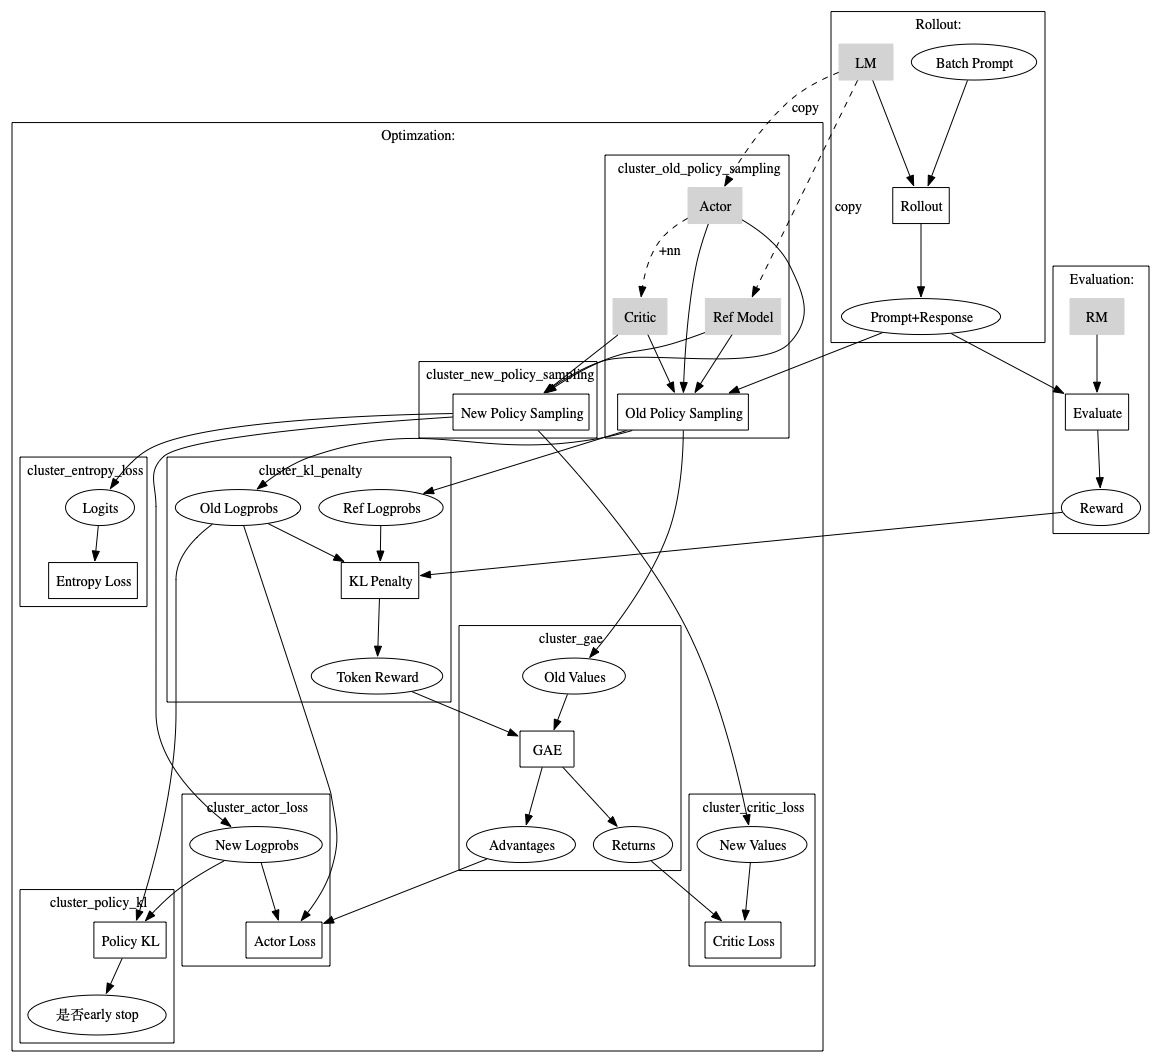
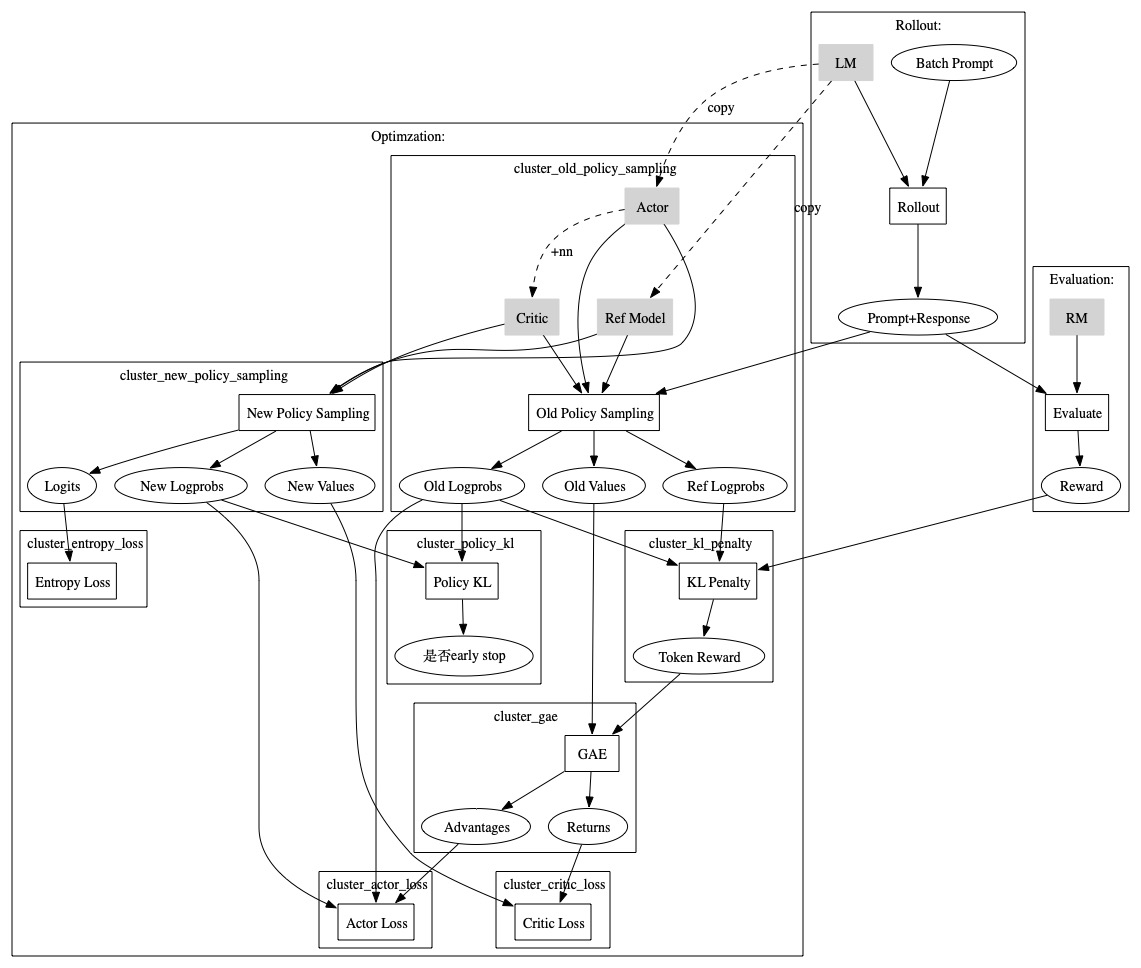
x

Changed region(s): [[0.0, 0.0, 1.0, 0.9917], [0.3067, 0.124, 0.3988, 0.155], [0.6748, 0.9607, 0.7055, 0.9917]]

diff --git a/posts/1.7.llm_recommend.md b/posts/1.7.llm_recommend.md
@@ -4109,7 +4109,7 @@ $$
 $$
 
 + 应用1：representation memento
-    + 召回
+    + 召回：用[Scaling User Modeling: Large-scale Online User Representations for Ads Personalization in Meta](https://arxiv.org/pdf/2311.09544)的方式得到user emb，dim大概是64到256之间，大概有40个不同的source，用365天的历史大概有100K的有效序列长度
     + Ember
 
 + 应用2：data memento
@@ -4875,6 +4875,49 @@ BlockRank通过以下方式改进LLM的注意力操作：
 
 + 在架构上强制实现观察到的文档间块稀疏性,将注意力复杂度从二次降至线性，且不损失性能;
 + 在微调过程中通过辅助对比训练目标，优化真实相关文档的查询-文档块相关性，提升检索效果。
+
+## Meta的SIRA
+
+[SIRA: Superintelligent Retrieval Agent for Next-Generation Information Retrieval](https://arxiv.org/pdf/2605.06647)
+
+[https://github.com/facebookresearch/sira](https://github.com/facebookresearch/sira)
+
+复习BM25，其中t是query里的term：
+
+$$
+\operatorname{BM25}(q, d)=\sum_{i=1}^n \underbrace{\log \left(1+\frac{N-n\left(q_i\right)+0.5}{n\left(q_i\right)+0.5}\right)}_{\operatorname{IDF}\left(q_i\right)} \cdot \frac{f\left(q_i, d\right)}{f\left(q_i, d\right)+k_1\left(1-b+b \cdot \frac{|d|}{\operatorname{avgdl}}\right)}
+$$
+
++ 只看query里的切词，所以不理解“登山鞋”和“徒步鞋”语义相近，除非你提前做同义词扩展
++ $$IDF(t)$$：决定了越稀有的词，权重越高，是log(总文档数 / 包含该词的文档数)
++ $$f(t,d)$$：词在文档里出现越多，相关性越高，但会饱和，即公式中$$f / (f + something)$$能避免一个文档靠疯狂重复关键词作弊。
++ $$|d| / avgdl$$：因为长文档天然更容易命中query里的词，所以要惩罚长文档。$$|d|$$是当前文档长度，$$avgdl$$是平均文档长度。
+
+DF filter：根据Document Frequency（文档频率）来过滤，形如：
+
+```
+DF = 0：过滤，索引里不存在
+DF < 10：可能过滤，太稀有，可能是噪声
+DF > 1,000,000：过滤，太常见
+中间：保留
+```
+
+目前主要有2种搜索方式：
+
++ dense检索：in-domain supervision（依赖大量域内监督，很吃域内标注/交互日志；而 LLM 搜索时代点击监督不一定可靠），可控性不好（例如难以严格满足must-have/must-not-have这种约束，而这是BM25这种lexical retrieval的优势）
++ 多步agent：每一轮都要llm和retriever，很慢，而且检索上下文依赖强
+
+![](../assets/sira-compare.png)
+
+![](../assets/sira.png)
+
++ 离线：document-side enrichment
+    + 对每篇文档，让frozen LLM读文档，补充“用户可能会用来搜这篇文档、但文档原文里没有”的词，比如同义词、缩写、别名、领域表达。
+    + 然后用DF filter过滤太常见、没区分度的词，剩下的词作为atomic n-gram entries加进倒排索引。
++ 在线：query-side enrichment
+    + 用户query来了以后，LLM先预测“相关证据文档里可能出现、但 query 里没写出来”的词。
+    + 然后也用DF filter做校验：词必须在索引里出现，并且不能太常见。
+    + 最后做一次weighted BM25：$$score(d) = BM25(q_{orig}, d) + w * BM25(q_{exp}, d)$$
 
 ## Linkedin的MixLM
 